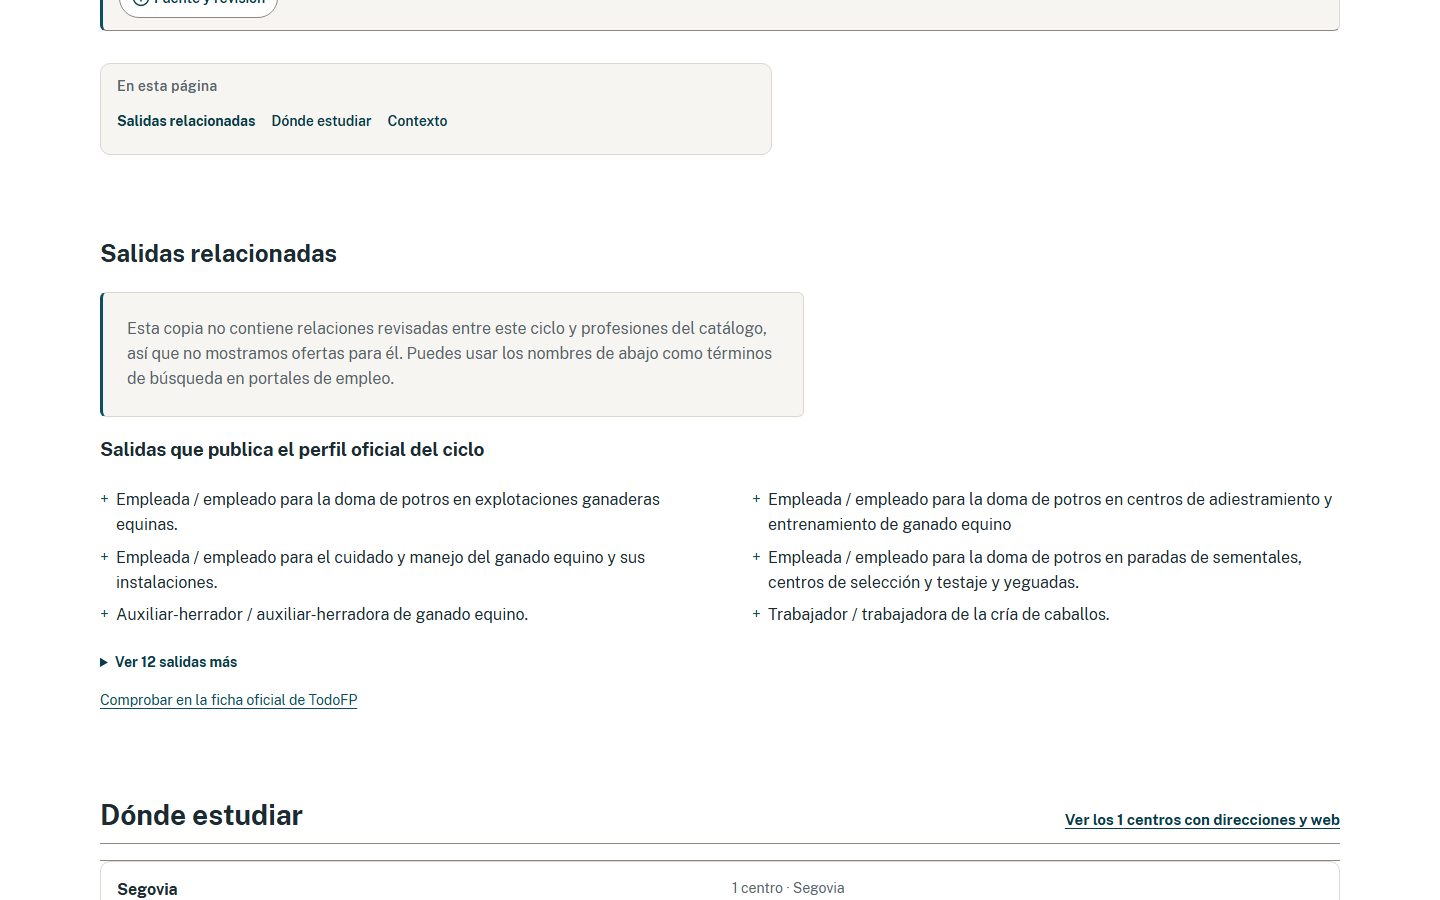
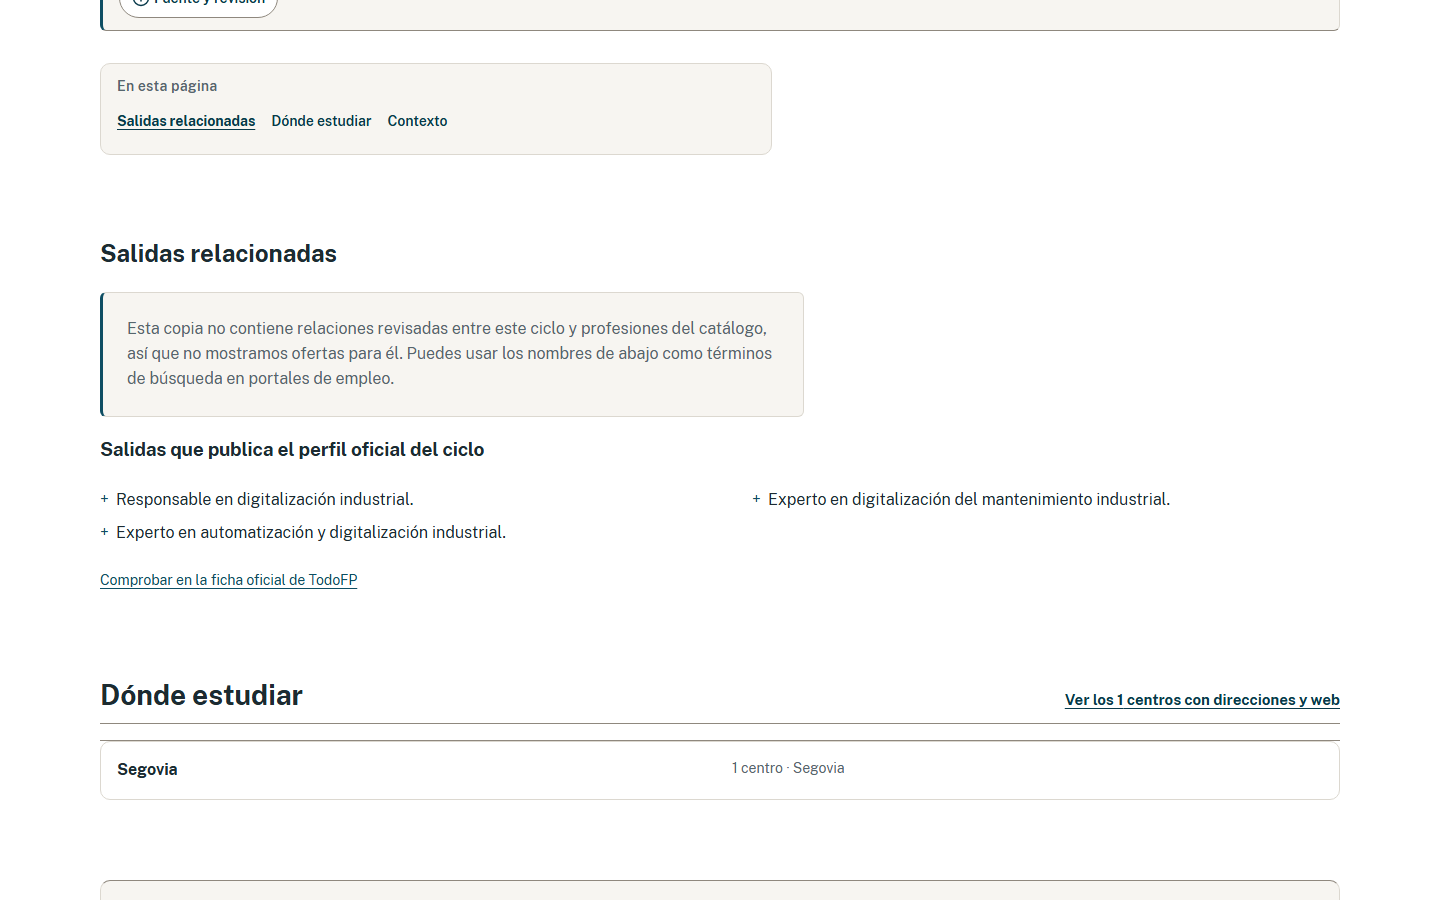
Record candidate 20 public verification and current pilot target

diff --git a/scripts/release/captureContestEvidence.ts b/scripts/release/captureContestEvidence.ts
@@ -98,7 +98,7 @@ async function prepareCapture(page: Page, evidenceId: string): Promise<void> {
     await chooseTrainingProgram(page, "EOC01M");
   }
   if (evidenceId === "fp-pre-search-reviewed-zero") {
-    await chooseTrainingProgram(page, "AFD01M");
+    await chooseTrainingProgram(page, "IMA01E");
   }
   if (evidenceId === "comparison-dual-scopes") {
     await page.getByText("Grado superior", { exact: true }).click();

diff --git a/docs/contest/evidence-capture.md b/docs/contest/evidence-capture.md
@@ -9,7 +9,7 @@ This checklist is rendered from `docs/contest/evidence-capture.json`. Capture on
 | `fp-pre-search-reviewed` | `/desde-fp` | 1440×900 | rol heading «¿En qué puedes trabajar con una FP?»; rol combobox «Ciclo de Formación Profesional»; texto «Profesiones comprobadas para este ciclo: 5.» | `public_modality_keys`, `approved_relations`, `approved_aliases` | `docs/contest/evidence/fp-pre-search-reviewed.png` | sí | Use a fresh anonymous browser context; omit browser chrome, personal data, cookies, account identifiers, API keys, tokens, and local filesystem paths. |
 | `fp-pre-search-reviewed-zero` | `/desde-fp` | 1440×900 | rol combobox «Ciclo de Formación Profesional»; texto «Verás sus salidas oficiales; esta copia no contiene una relación comprobada para buscar ofertas.» | `approved_relations`, `zero_reviewed_relations` | `docs/contest/evidence/fp-pre-search-reviewed-zero.png` | sí | Use a fresh anonymous browser context; omit browser chrome, personal data, cookies, account identifiers, API keys, tokens, and local filesystem paths. |
 | `fp-matched-result` | `/desde-fp/EOC01M` | 1440×900 | rol heading «Construcción»; texto «Código oficial EOC01M»; texto «5 profesiones en las que puedes trabajar»; texto «Salida profesional publicada en el perfil oficial del ciclo.» | `approved_relations`, `approved_aliases`, `matched_offer_union`, `no_salary_prediction` | `docs/contest/evidence/fp-matched-result.png` | sí | Use a fresh anonymous browser context; omit browser chrome, personal data, cookies, account identifiers, API keys, tokens, and local filesystem paths. |
-| `fp-reviewed-zero-result` | `/desde-fp/AFD01M` | 1440×900 | rol heading «Actividades Ecuestres»; rol heading «Salidas que publica el perfil oficial del ciclo» | `approved_relations`, `zero_reviewed_relations` | `docs/contest/evidence/fp-reviewed-zero-result.png` | sí | Use a fresh anonymous browser context; omit browser chrome, personal data, cookies, account identifiers, API keys, tokens, and local filesystem paths. |
+| `fp-reviewed-zero-result` | `/desde-fp/IMA01E` | 1440×900 | rol heading «Digitalización del Mantenimiento Industrial»; rol heading «Salidas que publica el perfil oficial del ciclo» | `approved_relations`, `zero_reviewed_relations` | `docs/contest/evidence/fp-reviewed-zero-result.png` | sí | Use a fresh anonymous browser context; omit browser chrome, personal data, cookies, account identifiers, API keys, tokens, and local filesystem paths. |
 | `comparison-dual-scopes` | `/comparar` | 1440×900 | rol heading «Ingresos observados del ciclo o grupo en España»; rol heading «Referencia de titulados de Grado Superior en Castilla y León»; texto «Mostramos ambas referencias por separado» | `income_source_scope`, `graduation_centre_scope`, `national_cycle_group_scope`, `no_salary_prediction` | `docs/contest/evidence/comparison-dual-scopes.png` | sí | Use a fresh anonymous browser context; omit browser chrome, personal data, cookies, account identifiers, API keys, tokens, and local filesystem paths. |
 | `occupation-matched-result` | `/desde-ocupacion/occupation%3Acno11%3A7121` | 1440×900 | rol heading «Albañiles»; texto «CNO-11 7121»; rol heading «FP que te llevan a esta profesión»; texto «Ver dónde estudiarlo» | `approved_relations`, `official_source_boundaries`, `accessibility_intent` | `docs/contest/evidence/occupation-matched-result.png` | sí | Use a fresh anonymous browser context; omit browser chrome, personal data, cookies, account identifiers, API keys, tokens, and local filesystem paths. |
 | `methodology-sources` | `/metodologia` | 1440×900 | rol heading «Metodología y fuentes»; rol heading «8 datasets de la Junta»; texto «Contratos por provincia»; texto «CC BY 4.0 ES» | `official_source_boundaries`, `published_snapshot`, `accessibility_intent` | `docs/contest/evidence/methodology-sources.png` | sí | Use a fresh anonymous browser context; omit browser chrome, personal data, cookies, account identifiers, API keys, tokens, and local filesystem paths. |

diff --git a/analysis/nan-review/README.md b/analysis/nan-review/README.md
@@ -1,8 +1,7 @@
 # Revisión ampliada con Qwen y Gemma
 
-Revisión de la base `20260908044344059-f92da75832e9`, con candidato local
-`20260908152239149-2a613b74a192`. La publicación requiere completar los controles
-de versión y despliegue; los informes de modelos no constituyen aprobación por sí solos.
+Revisión de la base `20260908044344059-f92da75832e9`, con candidato
+`20260908155911229-c72920ec4fed`. Publicado en la web principal como candidate.20. Los informes de modelos no constituyen aprobación por sí solos.
 
 Resultados preparados: 528 dictámenes para las 264 relaciones existentes y 98 para
 49 propuestas seleccionadas. Se corrigieron 44 citas o fuentes y seis códigos CNO;
@@ -10,8 +9,8 @@ ocho relaciones quedaron pendientes y dos se rechazaron. Se incorporaron 43 sali
 y 23 relaciones de modalidad verificadas por identidad de programa. El candidato
 contiene 320 relaciones aprobadas y cubre 185 de 187 claves (98,9 %).
 
-La nueva descarga contiene 1.032 ofertas, de las que 307 tienen relación revisada
-(29,7 %), con 549 vínculos. Cinco denominaciones principales del catálogo SISPE
+La nueva descarga contiene 1.032 ofertas, de las que 301 tienen relación revisada
+(29,2 %), con 536 vínculos. Cinco denominaciones principales del catálogo SISPE
 del SEPE tienen reglas exactas específicas. No se cruzan automáticamente todas las
 formaciones que comparten un código CNO, ni se infieren requisitos de contratación.
 Los dos programas IMA01E e IMA02E siguen pendientes de evidencia suficientemente
@@ -93,3 +92,5 @@ El extractor `extractSispeOfferCandidates.py` utiliza `pdfplumber`, exige el SHA
 del PDF inspeccionado y separa la columna principal de las denominaciones alternativas.
 Sus resultados son candidatos, no reglas aprobadas. La edición SISPE es de 2018;
 la descarga del 8 de septiembre de 2026 no se presenta como actualización del catálogo.
+
+Las relaciones adyacentes requieren evidencia específica de la oferta y no heredan coincidencias de alias genéricos. Este límite evita cruces de especializaciones con empleos de otros ámbitos; las relaciones FP-CNO siguen consultables.

diff --git a/docs/qa/nan-review-20260908.md b/docs/qa/nan-review-20260908.md
@@ -26,7 +26,7 @@ sigue consultable; una oferta requiere evidencia específica.
 
 Se mantiene el presupuesto inicial de datos de 10.000.000 bytes y el de JavaScript.
 Las notas SISPE comparten la referencia en Metodología para evitar repetir la URL
-completa en cada evidencia. La carga inicial comprobada queda por debajo del límite en Chromium, Firefox y WebKit. EDUCAbase se carga
+completa en cada evidencia. La carga inicial suma 9.980.220 bytes y cumple el límite en Chromium, Firefox y WebKit. EDUCAbase se carga
 al solicitarlo; solo la instantánea activa se distribuye en el sitio.
 
 ## Controles
@@ -39,4 +39,4 @@ incorpora al registro de publicación una vez completada.
 El piloto humano sigue en `HUMAN_PILOT_NOT_RUN`. La revisión de modelos no se cuenta
 como pilotaje ni como certificación profesional de orientación.
 
-Pruebas de los recorridos modificados: 73 superadas en Chromium (una omitida por viewport) y 32 en Firefox/WebKit. La suite completa y la comprobación pública se registran al terminar.
+Pruebas de los recorridos modificados: 73 superadas en Chromium (una omitida por viewport) y 32 en Firefox/WebKit. La batería Chromium completa pasó 296 pruebas (seis omitidas). La batería de código pasó 1.371 pruebas con dos tiempos agotados; la repetición de los dos archivos de integración pasó las 82 pruebas.

diff --git a/README.md b/README.md
@@ -16,7 +16,7 @@ Por ejemplo, la ficha de [Cuidados Auxiliares de Enfermería](https://salida-cyl
 
 ## Alcance y límites
 
-Estas cifras corresponden al candidato ampliado del 8 de septiembre, pendiente de publicación. La web mantiene candidate.19 hasta completar los controles. La [auditoría con Qwen y Gemma](analysis/nan-review/README.md) documenta las fuentes, correcciones y límites.
+Estas cifras corresponden a candidate.20, publicada en la web principal el 8 de septiembre de 2026. La [auditoría con Qwen y Gemma](analysis/nan-review/README.md) documenta las fuentes, correcciones y límites.
 
 El catálogo contiene **187 claves de programa, incluidas modalidades**. **185 tienen al menos una relación ocupacional aprobada (98,9 %)**. El grafo del candidato contiene 320 relaciones revisadas. Las modalidades no se presentan como titulaciones distintas.
 
